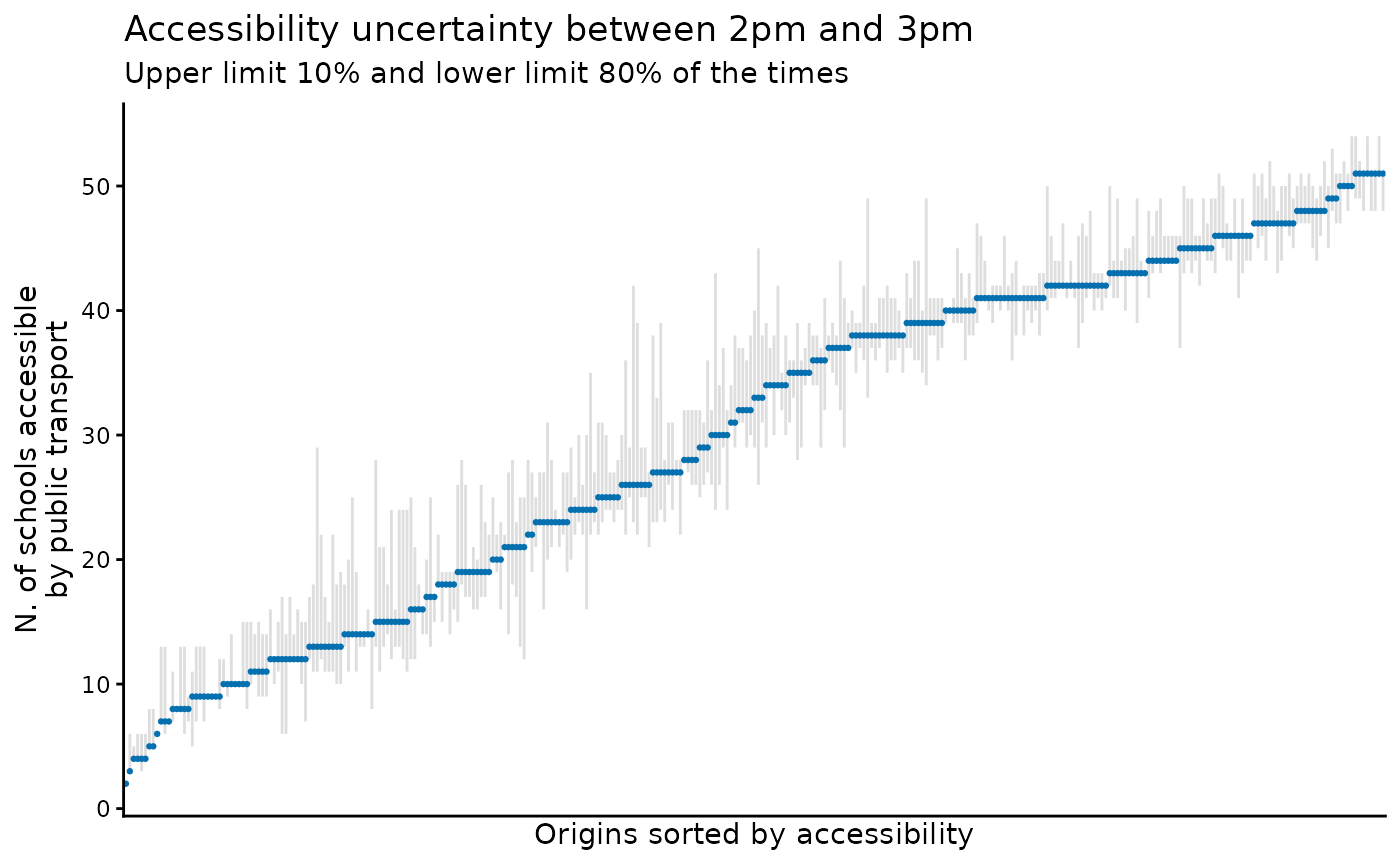
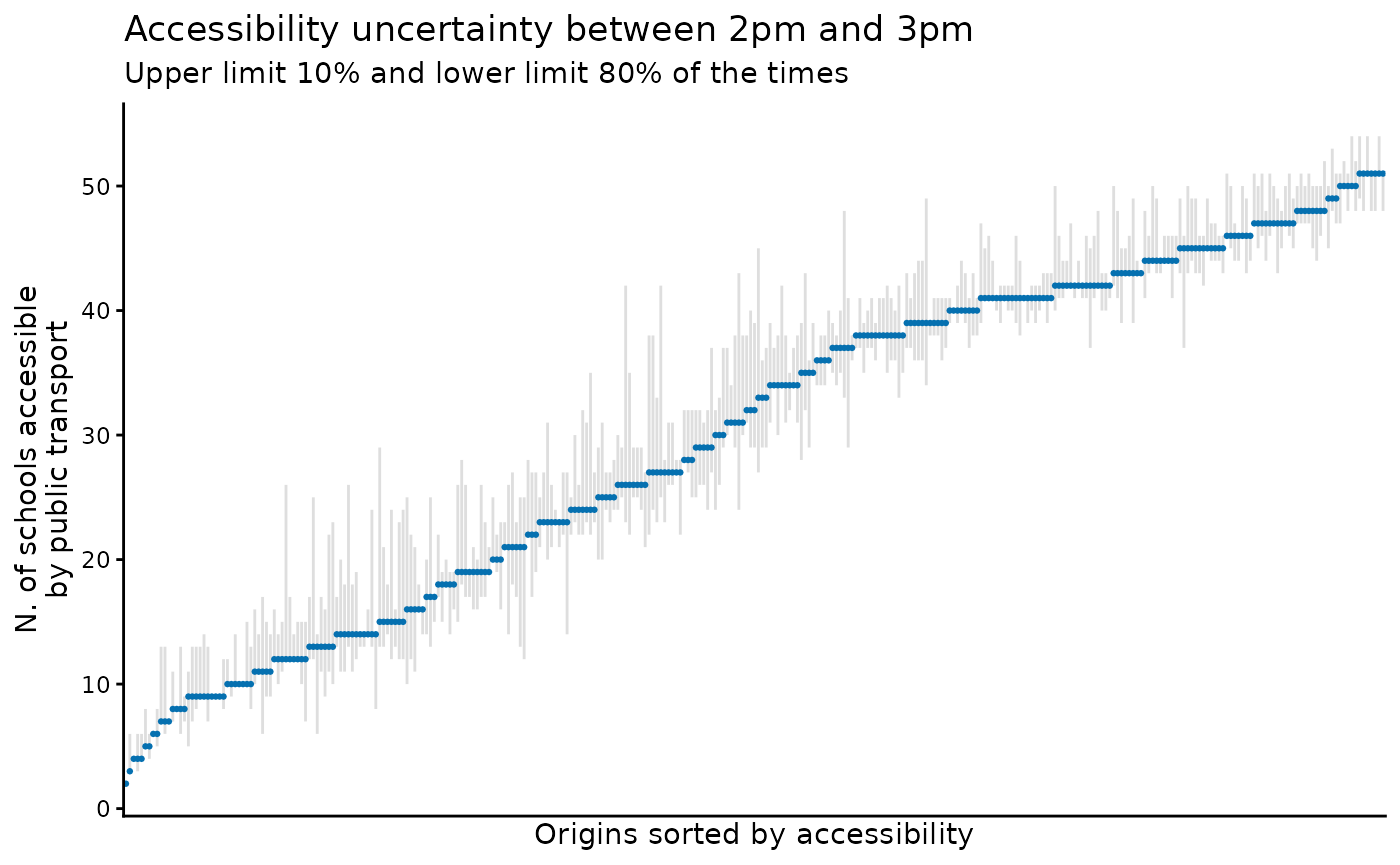
Built site for r5r@2.3.0.999: 1da29cb

diff --git a/dev/reference/accessibility.html b/dev/reference/accessibility.html
@@ -478,7 +478,7 @@ transit routing. Transportation Science, 49(3), 591-604.
 <span class="r-in"><span><span class="va">r5r_network</span> <span class="op">&lt;-</span> <span class="fu"><a href="build_network.html">build_network</a></span><span class="op">(</span><span class="va">data_path</span><span class="op">)</span></span></span>
 <span class="r-msg co"><span class="r-pr">#&gt;</span> Downloading R5 jar file to /home/runner/.cache/R/r5r/r5_jar_v7.5.1/r5-v7.5-1-gf3631e9-all.jar</span>
 <span class="r-msg co"><span class="r-pr">#&gt;</span> <span style="color: #00BB00;">✔</span> Finished building network at <span style="color: #0000BB;">/home/runner/work/_temp/Library/r5r/extdata/poa</span></span>
-<span class="r-in"><span><span class="va">points</span> <span class="op">&lt;-</span> <span class="fu"><a href="https://rdrr.io/r/utils/read.table.html" class="external-link">read.csv</a></span><span class="op">(</span><span class="fu"><a href="https://rdrr.io/r/base/file.path.html" class="external-link">file.path</a></span><span class="op">(</span><span class="va">data_path</span>, <span class="st">"poa_hexgrid.csv"</span><span class="op">)</span><span class="op">)</span><span class="op">[</span><span class="fl">1</span><span class="op">:</span><span class="fl">5</span>, <span class="op">]</span></span></span>
+<span class="r-in"><span><span class="va">points</span> <span class="op">&lt;-</span> <span class="fu"><a href="https://rdrr.io/r/utils/read.table.html" class="external-link">read.csv</a></span><span class="op">(</span><span class="fu"><a href="https://rdrr.io/r/base/file.path.html" class="external-link">file.path</a></span><span class="op">(</span><span class="va">data_path</span>, <span class="st">"poa_hexgrid.csv"</span><span class="op">)</span><span class="op">)</span><span class="op">[</span><span class="fl">1</span><span class="op">:</span><span class="fl">500</span>, <span class="op">]</span></span></span>
 <span class="r-in"><span></span></span>
 <span class="r-in"><span><span class="va">departure_datetime</span> <span class="op">&lt;-</span> <span class="fu"><a href="https://rdrr.io/r/base/as.POSIXlt.html" class="external-link">as.POSIXct</a></span><span class="op">(</span></span></span>
 <span class="r-in"><span>  <span class="st">"13-05-2019 14:00:00"</span>,</span></span>
@@ -499,11 +499,12 @@ transit routing. Transportation Science, 49(3), 591-604.
 <span class="r-in"><span><span class="fu"><a href="https://rdrr.io/r/utils/head.html" class="external-link">head</a></span><span class="op">(</span><span class="va">access</span><span class="op">)</span></span></span>
 <span class="r-out co"><span class="r-pr">#&gt;</span>                 id opportunity percentile cutoff accessibility</span>
 <span class="r-out co"><span class="r-pr">#&gt;</span>             &lt;char&gt;      &lt;char&gt;      &lt;int&gt;  &lt;int&gt;         &lt;num&gt;</span>
-<span class="r-out co"><span class="r-pr">#&gt;</span> 1: 89a901291abffff     schools         50     30             0</span>
+<span class="r-out co"><span class="r-pr">#&gt;</span> 1: 89a901291abffff     schools         50     30             4</span>
 <span class="r-out co"><span class="r-pr">#&gt;</span> 2: 89a9012a3cfffff     schools         50     30             0</span>
-<span class="r-out co"><span class="r-pr">#&gt;</span> 3: 89a901295b7ffff     schools         50     30             0</span>
-<span class="r-out co"><span class="r-pr">#&gt;</span> 4: 89a901284a3ffff     schools         50     30             0</span>
+<span class="r-out co"><span class="r-pr">#&gt;</span> 3: 89a901295b7ffff     schools         50     30             7</span>
+<span class="r-out co"><span class="r-pr">#&gt;</span> 4: 89a901284a3ffff     schools         50     30             1</span>
 <span class="r-out co"><span class="r-pr">#&gt;</span> 5: 89a9012809bffff     schools         50     30             0</span>
+<span class="r-out co"><span class="r-pr">#&gt;</span> 6: 89a901285cfffff     schools         50     30             5</span>
 <span class="r-in"><span></span></span>
 <span class="r-in"><span><span class="co"># using a different decay function</span></span></span>
 <span class="r-in"><span><span class="va">access</span> <span class="op">&lt;-</span> <span class="fu">accessibility</span><span class="op">(</span></span></span>
@@ -521,11 +522,12 @@ transit routing. Transportation Science, 49(3), 591-604.
 <span class="r-in"><span><span class="fu"><a href="https://rdrr.io/r/utils/head.html" class="external-link">head</a></span><span class="op">(</span><span class="va">access</span><span class="op">)</span></span></span>
 <span class="r-out co"><span class="r-pr">#&gt;</span>                 id opportunity percentile cutoff accessibility</span>
 <span class="r-out co"><span class="r-pr">#&gt;</span>             &lt;char&gt;      &lt;char&gt;      &lt;int&gt;  &lt;int&gt;         &lt;num&gt;</span>
-<span class="r-out co"><span class="r-pr">#&gt;</span> 1: 89a901291abffff     schools         50     30             0</span>
-<span class="r-out co"><span class="r-pr">#&gt;</span> 2: 89a9012a3cfffff     schools         50     30             0</span>
-<span class="r-out co"><span class="r-pr">#&gt;</span> 3: 89a901295b7ffff     schools         50     30             0</span>
-<span class="r-out co"><span class="r-pr">#&gt;</span> 4: 89a901284a3ffff     schools         50     30             0</span>
-<span class="r-out co"><span class="r-pr">#&gt;</span> 5: 89a9012809bffff     schools         50     30             0</span>
+<span class="r-out co"><span class="r-pr">#&gt;</span> 1: 89a901291abffff     schools         50     30     3.9944818</span>
+<span class="r-out co"><span class="r-pr">#&gt;</span> 2: 89a9012a3cfffff     schools         50     30     0.0000000</span>
+<span class="r-out co"><span class="r-pr">#&gt;</span> 3: 89a901295b7ffff     schools         50     30     6.9936155</span>
+<span class="r-out co"><span class="r-pr">#&gt;</span> 4: 89a901284a3ffff     schools         50     30     1.0000000</span>
+<span class="r-out co"><span class="r-pr">#&gt;</span> 5: 89a9012809bffff     schools         50     30     0.0020933</span>
+<span class="r-out co"><span class="r-pr">#&gt;</span> 6: 89a901285cfffff     schools         50     30     4.8465894</span>
 <span class="r-in"><span></span></span>
 <span class="r-in"><span><span class="co"># using several cutoff values</span></span></span>
 <span class="r-in"><span><span class="va">access</span> <span class="op">&lt;-</span> <span class="fu">accessibility</span><span class="op">(</span></span></span>
@@ -543,11 +545,11 @@ transit routing. Transportation Science, 49(3), 591-604.
 <span class="r-out co"><span class="r-pr">#&gt;</span>                 id opportunity percentile cutoff accessibility</span>
 <span class="r-out co"><span class="r-pr">#&gt;</span>             &lt;char&gt;      &lt;char&gt;      &lt;int&gt;  &lt;int&gt;         &lt;num&gt;</span>
 <span class="r-out co"><span class="r-pr">#&gt;</span> 1: 89a901291abffff     schools         50     15             0</span>
-<span class="r-out co"><span class="r-pr">#&gt;</span> 2: 89a901291abffff     schools         50     30             0</span>
+<span class="r-out co"><span class="r-pr">#&gt;</span> 2: 89a901291abffff     schools         50     30             4</span>
 <span class="r-out co"><span class="r-pr">#&gt;</span> 3: 89a9012a3cfffff     schools         50     15             0</span>
 <span class="r-out co"><span class="r-pr">#&gt;</span> 4: 89a9012a3cfffff     schools         50     30             0</span>
-<span class="r-out co"><span class="r-pr">#&gt;</span> 5: 89a901295b7ffff     schools         50     15             0</span>
-<span class="r-out co"><span class="r-pr">#&gt;</span> 6: 89a901295b7ffff     schools         50     30             0</span>
+<span class="r-out co"><span class="r-pr">#&gt;</span> 5: 89a901295b7ffff     schools         50     15             3</span>
+<span class="r-out co"><span class="r-pr">#&gt;</span> 6: 89a901295b7ffff     schools         50     30             7</span>
 <span class="r-in"><span></span></span>
 <span class="r-in"><span><span class="co"># calculating access to different types of opportunities</span></span></span>
 <span class="r-in"><span><span class="va">access</span> <span class="op">&lt;-</span> <span class="fu">accessibility</span><span class="op">(</span></span></span>
@@ -564,12 +566,12 @@ transit routing. Transportation Science, 49(3), 591-604.
 <span class="r-in"><span><span class="fu"><a href="https://rdrr.io/r/utils/head.html" class="external-link">head</a></span><span class="op">(</span><span class="va">access</span><span class="op">)</span></span></span>
 <span class="r-out co"><span class="r-pr">#&gt;</span>                 id opportunity percentile cutoff accessibility</span>
 <span class="r-out co"><span class="r-pr">#&gt;</span>             &lt;char&gt;      &lt;char&gt;      &lt;int&gt;  &lt;int&gt;         &lt;num&gt;</span>
-<span class="r-out co"><span class="r-pr">#&gt;</span> 1: 89a901291abffff     schools         50     30             0</span>
-<span class="r-out co"><span class="r-pr">#&gt;</span> 2: 89a901291abffff  healthcare         50     30             0</span>
+<span class="r-out co"><span class="r-pr">#&gt;</span> 1: 89a901291abffff     schools         50     30             4</span>
+<span class="r-out co"><span class="r-pr">#&gt;</span> 2: 89a901291abffff  healthcare         50     30             5</span>
 <span class="r-out co"><span class="r-pr">#&gt;</span> 3: 89a9012a3cfffff     schools         50     30             0</span>
 <span class="r-out co"><span class="r-pr">#&gt;</span> 4: 89a9012a3cfffff  healthcare         50     30             0</span>
-<span class="r-out co"><span class="r-pr">#&gt;</span> 5: 89a901295b7ffff     schools         50     30             0</span>
-<span class="r-out co"><span class="r-pr">#&gt;</span> 6: 89a901295b7ffff  healthcare         50     30             1</span>
+<span class="r-out co"><span class="r-pr">#&gt;</span> 5: 89a901295b7ffff     schools         50     30             7</span>
+<span class="r-out co"><span class="r-pr">#&gt;</span> 6: 89a901295b7ffff  healthcare         50     30             7</span>
 <span class="r-in"><span></span></span>
 <span class="r-in"><span><span class="fu"><a href="stop_r5.html">stop_r5</a></span><span class="op">(</span><span class="va">r5r_network</span> <span class="op">)</span></span></span>
 <span class="r-msg co"><span class="r-pr">#&gt;</span> r5r_network has been successfully stopped.</span>

diff --git a/dev/articles/time_window.html b/dev/articles/time_window.html
@@ -237,9 +237,9 @@ minutes <code>cutoffs = 45</code>.</p>
 <span><span class="co">#&gt;  4: 89a8100c603ffff     schools         70     45             6</span></span>
 <span><span class="co">#&gt;  5: 89a8100c603ffff     schools         80     45             6</span></span>
 <span><span class="co">#&gt;  6: 89a8100c617ffff     schools         10     45            14</span></span>
-<span><span class="co">#&gt;  7: 89a8100c617ffff     schools         20     45            14</span></span>
-<span><span class="co">#&gt;  8: 89a8100c617ffff     schools         50     45            12</span></span>
-<span><span class="co">#&gt;  9: 89a8100c617ffff     schools         70     45             6</span></span>
+<span><span class="co">#&gt;  7: 89a8100c617ffff     schools         20     45            13</span></span>
+<span><span class="co">#&gt;  8: 89a8100c617ffff     schools         50     45            13</span></span>
+<span><span class="co">#&gt;  9: 89a8100c617ffff     schools         70     45             7</span></span>
 <span><span class="co">#&gt; 10: 89a8100c617ffff     schools         80     45             6</span></span></code></pre></div>
 <p>This output is in long format, so the first 5 rows show the result
 for the same origin. In this case, we see that in only 10% of the trips
@@ -365,16 +365,16 @@ sets and time windows.</p>
 <span><span class="co">#&gt; 10: 89a8100c603ffff 89a8100c28bffff       14:01:00           5 4491-10</span></span>
 <span><span class="co">#&gt;     total_time</span></span>
 <span><span class="co">#&gt;          &lt;num&gt;</span></span>
-<span><span class="co">#&gt;  1:       38.2</span></span>
-<span><span class="co">#&gt;  2:       43.8</span></span>
-<span><span class="co">#&gt;  3:       46.2</span></span>
-<span><span class="co">#&gt;  4:       46.0</span></span>
-<span><span class="co">#&gt;  5:       50.4</span></span>
-<span><span class="co">#&gt;  6:       42.4</span></span>
-<span><span class="co">#&gt;  7:       34.8</span></span>
-<span><span class="co">#&gt;  8:       46.0</span></span>
-<span><span class="co">#&gt;  9:       46.3</span></span>
-<span><span class="co">#&gt; 10:       46.8</span></span></code></pre></div>
+<span><span class="co">#&gt;  1:       44.7</span></span>
+<span><span class="co">#&gt;  2:       37.7</span></span>
+<span><span class="co">#&gt;  3:       34.5</span></span>
+<span><span class="co">#&gt;  4:       45.3</span></span>
+<span><span class="co">#&gt;  5:       50.6</span></span>
+<span><span class="co">#&gt;  6:       41.0</span></span>
+<span><span class="co">#&gt;  7:       36.7</span></span>
+<span><span class="co">#&gt;  8:       41.1</span></span>
+<span><span class="co">#&gt;  9:       46.1</span></span>
+<span><span class="co">#&gt; 10:       49.9</span></span></code></pre></div>
 </div>
 <div class="section level3">
 <h3 id="detailed-itineraries-with-time_window-">3.5 Detailed itineraries with <code>time_window</code>.<a class="anchor" aria-label="anchor" href="#detailed-itineraries-with-time_window-"></a>

diff --git a/dev/news/index.html b/dev/news/index.html
@@ -53,7 +53,9 @@
     <div class="section level2">
 <h2 class="pkg-version" data-toc-text="2.4.0" id="r5r-240-dev">r5r 2.4.0 dev<a class="anchor" aria-label="anchor" href="#r5r-240-dev"></a></h2>
 <p><strong>Major changes</strong></p>
-<ul><li>The <code><a href="../reference/isochrone.html">isochrone()</a></code> function has gone through major changes which substantially improved polygon-based isochrones. The function now builds on top of a travel time surface that uses a regular grid of points across the network (specifically a grid of Web Mercator pixels) and then uses the marching squares algorithm to generate the isochrone polygons. See detailed in the updated vignette. Closed <a href="https://github.com/ipeaGIT/r5r/issues/455" class="external-link">#455</a> and Closed <a href="https://github.com/ipeaGIT/r5r/issues/495" class="external-link">#495</a>.</li>
+<ul><li>Using new version of R5 v7.5.1. Closed <a href="https://github.com/ipeaGIT/r5r/issues/373" class="external-link">#373</a> and <a href="https://github.com/conveyal/r5/issues/970" class="external-link">#970</a>
+</li>
+<li>The <code><a href="../reference/isochrone.html">isochrone()</a></code> function has gone through major changes which substantially improved polygon-based isochrones. The function now builds on top of a travel time surface that uses a regular grid of points across the network (specifically a grid of Web Mercator pixels) and then uses the marching squares algorithm to generate the isochrone polygons. See detailed in the updated vignette. Closed <a href="https://github.com/ipeaGIT/r5r/issues/455" class="external-link">#455</a> and Closed <a href="https://github.com/ipeaGIT/r5r/issues/495" class="external-link">#495</a>.</li>
 <li>New support function <code><a href="../reference/get_gtfs_errors.html">get_gtfs_errors()</a></code> to help diagnose eventual errors in the GTFS data that prevent building the network. Closed <a href="https://github.com/ipeaGIT/r5r/issues/431" class="external-link">#431</a> and <a href="https://github.com/ipeaGIT/r5r/issues/541" class="external-link">#541</a>.</li>
 </ul><p><strong>Minor changes</strong></p>
 <ul><li>New support function <code><a href="../reference/check_transit_availability.html">check_transit_availability()</a></code> that checks the number and proportion of public transport services from the GTFS feeds that are active on specified dates.</li>
@@ -63,6 +65,10 @@
 </ul><p><strong>Bug fixes</strong></p>
 <ul><li>Revert back the order of origins destinations for Direct Modes. Fix implemented <code>in travel_time_matrix()</code>, <code><a href="../reference/arrival_travel_time_matrix.html">arrival_travel_time_matrix()</a></code> and <code><a href="../reference/expanded_travel_time_matrix.html">expanded_travel_time_matrix()</a></code>. Closes <a href="https://github.com/ipeaGIT/r5r/issues/501" class="external-link">#501</a>.</li>
 <li>Reverse search optimization is now only applicable to walking. Closes <a href="https://github.com/ipeaGIT/r5r/issues/517" class="external-link">#517</a>.</li>
+<li>Closed <a href="https://github.com/ipeaGIT/r5r/issues/373" class="external-link">#373</a>
+</li>
+<li>Closed <a href="https://github.com/conveyal/r5/issues/970" class="external-link">#970</a>
+</li>
 </ul><p><strong>New contributors to r5r</strong></p>
 <ul><li><a href="https://github.com/e-kotov" class="external-link">Egor Kotov</a></li>
 </ul></div>

diff --git a/dev/reference/download_r5.html b/dev/reference/download_r5.html
@@ -105,8 +105,8 @@ directory. Defaults to <code>FALSE</code>.</p></dd>
     <div class="sourceCode"><pre class="sourceCode r"><code><span class="r-in"><span><span class="kw"><a href="https://rdrr.io/r/base/library.html" class="external-link">library</a></span><span class="op">(</span><span class="va"><a href="https://github.com/ipeaGIT/r5r" class="external-link">r5r</a></span><span class="op">)</span></span></span>
 <span class="r-in"><span></span></span>
 <span class="r-in"><span><span class="fu">download_r5</span><span class="op">(</span>temp_dir <span class="op">=</span> <span class="cn">TRUE</span><span class="op">)</span></span></span>
-<span class="r-msg co"><span class="r-pr">#&gt;</span> Downloading R5 jar file to /tmp/Rtmp9LIaXW/r5-v7.5-1-gf3631e9-all.jar</span>
-<span class="r-out co"><span class="r-pr">#&gt;</span> [1] "/tmp/Rtmp9LIaXW/r5-v7.5-1-gf3631e9-all.jar"</span>
+<span class="r-msg co"><span class="r-pr">#&gt;</span> Downloading R5 jar file to /tmp/RtmpA217y6/r5-v7.5-1-gf3631e9-all.jar</span>
+<span class="r-out co"><span class="r-pr">#&gt;</span> [1] "/tmp/RtmpA217y6/r5-v7.5-1-gf3631e9-all.jar"</span>
 </code></pre></div>
     </div>
   </main><aside class="col-md-3"><nav id="toc" aria-label="Table of contents"><h2>On this page</h2>

diff --git a/dev/reference/accessibility.md b/dev/reference/accessibility.md
@@ -445,7 +445,7 @@ data_path <- system.file("extdata/poa", package = "r5r")
 r5r_network <- build_network(data_path)
 #> Downloading R5 jar file to /home/runner/.cache/R/r5r/r5_jar_v7.5.1/r5-v7.5-1-gf3631e9-all.jar
 #> ✔ Finished building network at /home/runner/work/_temp/Library/r5r/extdata/poa
-points <- read.csv(file.path(data_path, "poa_hexgrid.csv"))[1:5, ]
+points <- read.csv(file.path(data_path, "poa_hexgrid.csv"))[1:500, ]
 
 departure_datetime <- as.POSIXct(
   "13-05-2019 14:00:00",
@@ -466,11 +466,12 @@ access <- accessibility(
 head(access)
 #>                 id opportunity percentile cutoff accessibility
 #>             <char>      <char>      <int>  <int>         <num>
-#> 1: 89a901291abffff     schools         50     30             0
+#> 1: 89a901291abffff     schools         50     30             4
 #> 2: 89a9012a3cfffff     schools         50     30             0
-#> 3: 89a901295b7ffff     schools         50     30             0
-#> 4: 89a901284a3ffff     schools         50     30             0
+#> 3: 89a901295b7ffff     schools         50     30             7
+#> 4: 89a901284a3ffff     schools         50     30             1
 #> 5: 89a9012809bffff     schools         50     30             0
+#> 6: 89a901285cfffff     schools         50     30             5
 
 # using a different decay function
 access <- accessibility(
@@ -488,11 +489,12 @@ access <- accessibility(
 head(access)
 #>                 id opportunity percentile cutoff accessibility
 #>             <char>      <char>      <int>  <int>         <num>
-#> 1: 89a901291abffff     schools         50     30             0
-#> 2: 89a9012a3cfffff     schools         50     30             0
-#> 3: 89a901295b7ffff     schools         50     30             0
-#> 4: 89a901284a3ffff     schools         50     30             0
-#> 5: 89a9012809bffff     schools         50     30             0
+#> 1: 89a901291abffff     schools         50     30     3.9944818
+#> 2: 89a9012a3cfffff     schools         50     30     0.0000000
+#> 3: 89a901295b7ffff     schools         50     30     6.9936155
+#> 4: 89a901284a3ffff     schools         50     30     1.0000000
+#> 5: 89a9012809bffff     schools         50     30     0.0020933
+#> 6: 89a901285cfffff     schools         50     30     4.8465894
 
 # using several cutoff values
 access <- accessibility(
@@ -510,11 +512,11 @@ head(access)
 #>                 id opportunity percentile cutoff accessibility
 #>             <char>      <char>      <int>  <int>         <num>
 #> 1: 89a901291abffff     schools         50     15             0
-#> 2: 89a901291abffff     schools         50     30             0
+#> 2: 89a901291abffff     schools         50     30             4
 #> 3: 89a9012a3cfffff     schools         50     15             0
 #> 4: 89a9012a3cfffff     schools         50     30             0
-#> 5: 89a901295b7ffff     schools         50     15             0
-#> 6: 89a901295b7ffff     schools         50     30             0
+#> 5: 89a901295b7ffff     schools         50     15             3
+#> 6: 89a901295b7ffff     schools         50     30             7
 
 # calculating access to different types of opportunities
 access <- accessibility(
@@ -531,12 +533,12 @@ access <- accessibility(
 head(access)
 #>                 id opportunity percentile cutoff accessibility
 #>             <char>      <char>      <int>  <int>         <num>
-#> 1: 89a901291abffff     schools         50     30             0
-#> 2: 89a901291abffff  healthcare         50     30             0
+#> 1: 89a901291abffff     schools         50     30             4
+#> 2: 89a901291abffff  healthcare         50     30             5
 #> 3: 89a9012a3cfffff     schools         50     30             0
 #> 4: 89a9012a3cfffff  healthcare         50     30             0
-#> 5: 89a901295b7ffff     schools         50     30             0
-#> 6: 89a901295b7ffff  healthcare         50     30             1
+#> 5: 89a901295b7ffff     schools         50     30             7
+#> 6: 89a901295b7ffff  healthcare         50     30             7
 
 stop_r5(r5r_network )
 #> r5r_network has been successfully stopped.

diff --git a/dev/articles/time_window.md b/dev/articles/time_window.md
@@ -149,9 +149,9 @@ head(acc, n = 10)
 #>  4: 89a8100c603ffff     schools         70     45             6
 #>  5: 89a8100c603ffff     schools         80     45             6
 #>  6: 89a8100c617ffff     schools         10     45            14
-#>  7: 89a8100c617ffff     schools         20     45            14
-#>  8: 89a8100c617ffff     schools         50     45            12
-#>  9: 89a8100c617ffff     schools         70     45             6
+#>  7: 89a8100c617ffff     schools         20     45            13
+#>  8: 89a8100c617ffff     schools         50     45            13
+#>  9: 89a8100c617ffff     schools         70     45             7
 #> 10: 89a8100c617ffff     schools         80     45             6
 ```
 
@@ -289,16 +289,16 @@ head(ettm, n = 10)
 #> 10: 89a8100c603ffff 89a8100c28bffff       14:01:00           5 4491-10
 #>     total_time
 #>          <num>
-#>  1:       38.2
-#>  2:       43.8
-#>  3:       46.2
-#>  4:       46.0
-#>  5:       50.4
-#>  6:       42.4
-#>  7:       34.8
-#>  8:       46.0
-#>  9:       46.3
-#> 10:       46.8
+#>  1:       44.7
+#>  2:       37.7
+#>  3:       34.5
+#>  4:       45.3
+#>  5:       50.6
+#>  6:       41.0
+#>  7:       36.7
+#>  8:       41.1
+#>  9:       46.1
+#> 10:       49.9
 ```
 
 ### 3.5 Detailed itineraries with `time_window`.

diff --git a/dev/news/index.md b/dev/news/index.md
@@ -4,6 +4,9 @@
 
 **Major changes**
 
+- Using new version of R5 v7.5.1. Closed
+  [\#373](https://github.com/ipeaGIT/r5r/issues/373) and
+  [\#970](https://github.com/conveyal/r5/issues/970)
 - The
   [`isochrone()`](https://ipeagit.github.io/r5r/dev/reference/isochrone.md)
   function has gone through major changes which substantially improved
@@ -47,6 +50,8 @@
   Closes [\#501](https://github.com/ipeaGIT/r5r/issues/501).
 - Reverse search optimization is now only applicable to walking. Closes
   [\#517](https://github.com/ipeaGIT/r5r/issues/517).
+- Closed [\#373](https://github.com/ipeaGIT/r5r/issues/373)
+- Closed [\#970](https://github.com/conveyal/r5/issues/970)
 
 **New contributors to r5r**
 

diff --git a/dev/reference/download_r5.md b/dev/reference/download_r5.md
@@ -51,6 +51,6 @@ Other Build network:
 library(r5r)
 
 download_r5(temp_dir = TRUE)
-#> Downloading R5 jar file to /tmp/Rtmp9LIaXW/r5-v7.5-1-gf3631e9-all.jar
-#> [1] "/tmp/Rtmp9LIaXW/r5-v7.5-1-gf3631e9-all.jar"
+#> Downloading R5 jar file to /tmp/RtmpA217y6/r5-v7.5-1-gf3631e9-all.jar
+#> [1] "/tmp/RtmpA217y6/r5-v7.5-1-gf3631e9-all.jar"
 ```